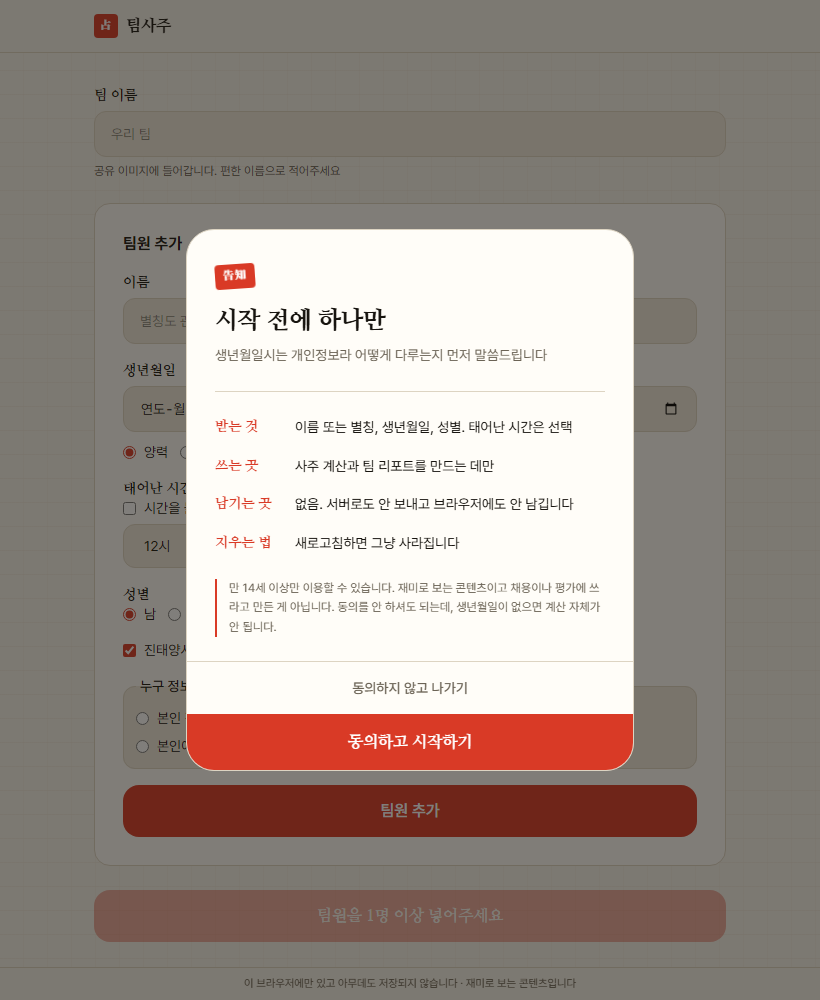
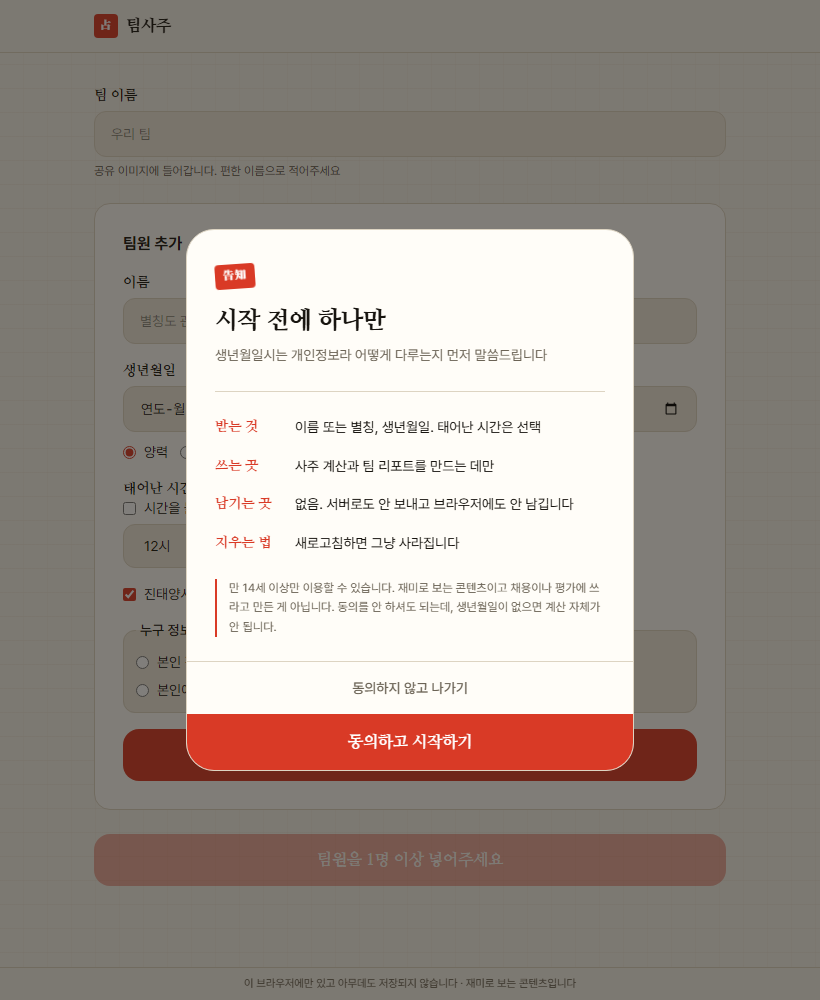
[CHORE] 쓰지도 않는 성별을 v1 폼에서 빼기 (#14) (#23)
* chore: 쓰지도 않는 성별을 v1 에서 뺀다

* docs: 성별을 안 받는다는 결정을 문서에 반영

* docs: 성별 뺀 입력 폼 캡쳐

* docs: 보관 문구를 저장 안 하는 실제와 맞추고 결정 로그 추가

Changed region(s): [[0.0915, 0.589, 0.8841, 0.961], [0.5183, 0.403, 0.7012, 0.434]]

diff --git a/src/devSeed.ts b/src/devSeed.ts
@@ -10,13 +10,13 @@ import { emptyDraft, useTeamStore, type Draft } from './store/teamStore'
  * 프로덕션 번들에는 들어가지 않는다. main.tsx 에서 import.meta.env.DEV 로 막는다.
  */
 
-type Seed = Pick<Draft, 'name' | 'birthDate' | 'birthHour' | 'gender'>
+type Seed = Pick<Draft, 'name' | 'birthDate' | 'birthHour'>
 
 /** 실존 인물이 아니다. 오행이 한쪽으로 쏠리게 골라 결과가 균형형으로 안 빠지게 했다 */
 const SAMPLE: Seed[] = [
-  { name: '은우', birthDate: '1990-06-15', birthHour: 12, gender: 'male' },
-  { name: '서림', birthDate: '1988-06-20', birthHour: 14, gender: 'female' },
-  { name: '효경', birthDate: '1995-07-01', birthHour: 10, gender: 'female' },
+  { name: '은우', birthDate: '1990-06-15', birthHour: 12 },
+  { name: '서림', birthDate: '1988-06-20', birthHour: 14 },
+  { name: '효경', birthDate: '1995-07-01', birthHour: 10 },
 ]
 
 function seedMembers(): boolean {

diff --git a/src/components/Input/InputMemberForm.tsx b/src/components/Input/InputMemberForm.tsx
@@ -135,27 +135,6 @@ export function InputMemberForm({ onSubmit, disabled }: Props) {
         )}
       </CommonFieldGroup>
 
-      <CommonFieldGroup legend="성별">
-        <div className="flex gap-3 text-sm">
-          <CommonCheckLabel
-            type="radio"
-            name="gender"
-            checked={draft.gender === 'male'}
-            onChange={() => set('gender', 'male')}
-          >
-            남
-          </CommonCheckLabel>
-          <CommonCheckLabel
-            type="radio"
-            name="gender"
-            checked={draft.gender === 'female'}
-            onChange={() => set('gender', 'female')}
-          >
-            여
-          </CommonCheckLabel>
-        </div>
-      </CommonFieldGroup>
-
       <CommonCheckLabel
         checked={draft.useTrueSolarTime}
         onChange={(e) => set('useTrueSolarTime', e.target.checked)}

diff --git a/src/store/teamStore.ts b/src/store/teamStore.ts
@@ -16,7 +16,6 @@ export type Draft = {
   birthMinute: number
   calendar: 'solar' | 'lunar'
   isLeapMonth: boolean
-  gender: 'male' | 'female'
   useTrueSolarTime: boolean
   consentSource: 'self' | 'delegated' | null
 }
@@ -29,7 +28,6 @@ export const emptyDraft = (): Draft => ({
   birthMinute: 0,
   calendar: 'solar',
   isLeapMonth: false,
-  gender: 'male',
   useTrueSolarTime: true,
   consentSource: null,
 })
@@ -68,7 +66,6 @@ function draftToInput(draft: Draft): MemberInput {
     birthMinute: draft.hourKnown ? draft.birthMinute : 0,
     calendar: draft.calendar,
     isLeapMonth: draft.calendar === 'lunar' && draft.isLeapMonth,
-    gender: draft.gender,
     useTrueSolarTime: draft.useTrueSolarTime,
     consent: {
       source: draft.consentSource ?? 'self',

diff --git a/src/components/Input/InputConsentModal.tsx b/src/components/Input/InputConsentModal.tsx
@@ -6,7 +6,7 @@ type Props = {
 }
 
 const ITEMS: Array<[string, string]> = [
-  ['받는 것', '이름 또는 별칭, 생년월일, 성별. 태어난 시간은 선택'],
+  ['받는 것', '이름 또는 별칭, 생년월일. 태어난 시간은 선택'],
   ['쓰는 곳', '사주 계산과 팀 리포트를 만드는 데만'],
   ['남기는 곳', '없음. 서버로도 안 보내고 브라우저에도 안 남깁니다'],
   ['지우는 법', '새로고침하면 그냥 사라집니다'],

diff --git a/src/components/Common/CommonField.tsx b/src/components/Common/CommonField.tsx
@@ -96,7 +96,7 @@ export function CommonCheckLabel({
   )
 }
 
-/** 묶음 입력. 성별, 양음력처럼 선택지가 몇 개 없을 때 */
+/** 묶음 입력. 양음력, 태어난 시간처럼 선택지가 몇 개 없을 때 */
 export function CommonFieldGroup({
   legend,
   children,

diff --git a/src/lib/saju/__tests__/golden.test.ts b/src/lib/saju/__tests__/golden.test.ts
@@ -17,7 +17,6 @@ function member(over: Partial<MemberInput> = {}): MemberInput {
     birthMinute: 30,
     calendar: 'solar',
     isLeapMonth: false,
-    gender: 'male',
     useTrueSolarTime: true,
     consent: { source: 'self', confirmedAt: '2026-09-06T00:00:00Z' },
     ...over,

diff --git a/src/lib/saju/types.ts b/src/lib/saju/types.ts
@@ -79,7 +79,6 @@ export type MemberInput = {
   birthMinute: number
   calendar: 'solar' | 'lunar'
   isLeapMonth: boolean
-  gender: 'male' | 'female'
   useTrueSolarTime: boolean
   consent: {
     source: ConsentSource

diff --git a/docs/05-roadmap.md b/docs/05-roadmap.md
@@ -72,3 +72,4 @@
 | 2026-09-06 | 분석 전에 로딩 화면을 둔다. 명식을 보는 척하는 문구가 돌아간다 |
 | 2026-09-07 | 일러스트는 **결핍 오행**으로 고른다. 유형의 성격은 뭐가 넘치냐가 아니라 뭐가 없냐에서 나온다. 주도 오행으로 고르면 문구는 브레이크가 없다는데 그림만 신나 있다 |
 | 2026-09-07 | public/illust 파일은 내용이 바뀌면 이름도 바꾼다. vercel.json 이 1년 immutable 캐시를 걸어둬서, 같은 이름으로 내용만 갈면 이미 받아간 사람은 옛 그림을 계속 본다 |
+| 2026-09-07 | 성별은 v1에서 안 받는다. 대운 방향에 쓰려던 건데 대운 자체가 백로그라 계산에도 화면에도 소비처가 없었다. 쓰지도 않을 개인정보를 대리 입력으로 남의 것까지 받는 건 06-privacy.md 노선과 안 맞는다. 대운을 붙이는 스프린트에 다시 받는다 |

diff --git a/docs/01-prd.md b/docs/01-prd.md
@@ -45,7 +45,7 @@
 | F1.1 | 이름, 생년월일 | 이름 1~12자, 날짜 1900-01-01 부터 오늘까지 |
 | F1.2 | 태어난 시간 | 0~23시. "모름" 선택 가능, 이 경우 시주 빼고 3주만 분석 |
 | F1.3 | 양력 음력 선택 | 음력 고르면 윤달 체크박스 노출 |
-| F1.4 | 성별 | 대운 방향 계산에 필요 |
+| F1.4 | 성별 | **v1은 안 받는다.** 대운을 붙이는 스프린트에 그때 다시 받는다 |
 | F1.5 | 팀원 CRUD | 최대 8명. 삭제는 undo 토스트 |
 | F1.6 | 저장 안 함 | 입력은 메모리에만 둔다. 새로고침하면 사라진다고 화면에 적는다 |
 | F1.7 | 시간 보정 토글 | 진태양시 on/off, 기본 on, 설명 툴팁 |

diff --git a/docs/02-architecture.md b/docs/02-architecture.md
@@ -111,7 +111,6 @@ type MemberInput = {
   birthMinute: number
   calendar: 'solar' | 'lunar'
   isLeapMonth: boolean
-  gender: 'male' | 'female'
   useTrueSolarTime: boolean
   consent: {
     source: 'self' | 'delegated'   // 본인 정보인가 대리 입력인가
